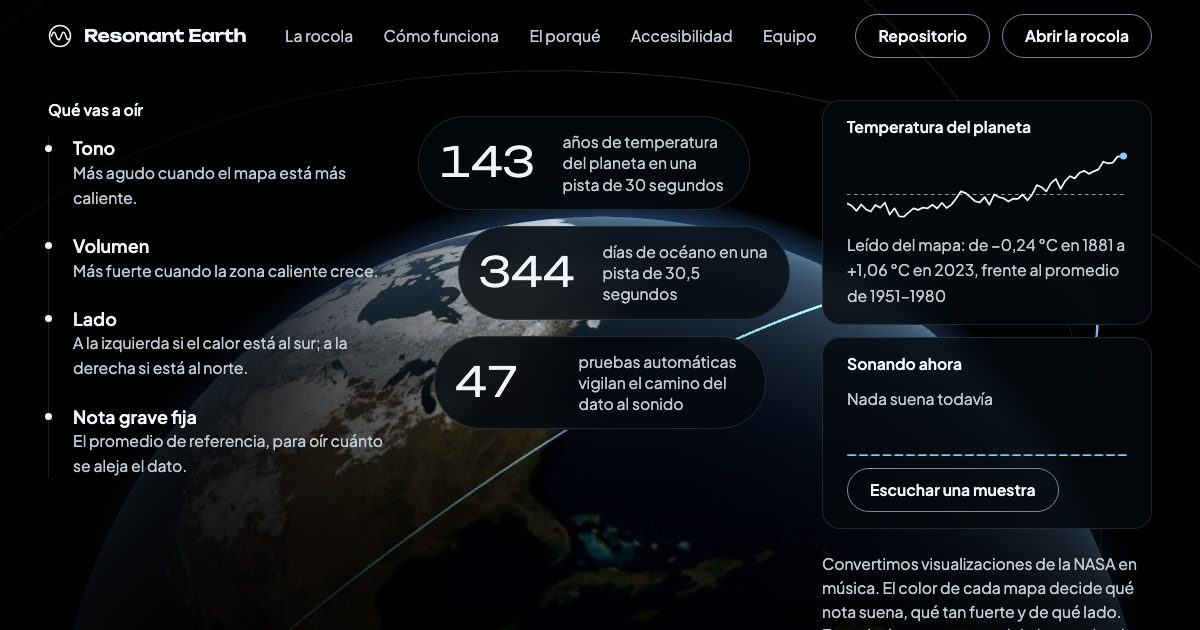
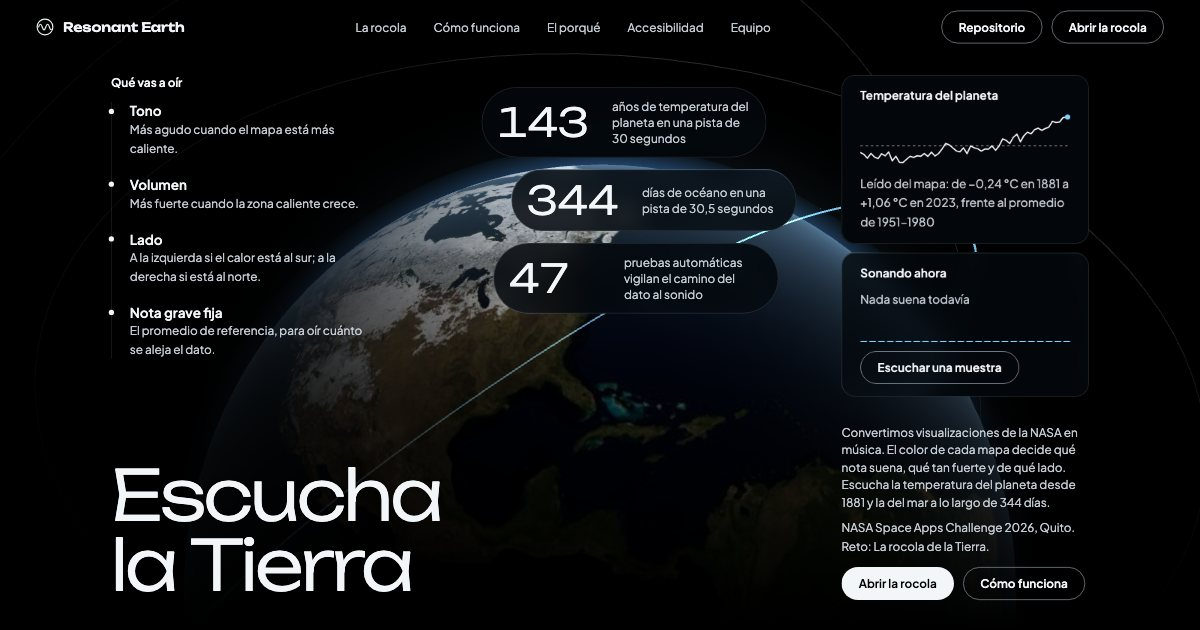
Ronda 40: auditoría y pulido (explorador se apaga solo y calla al salir, imagen para compartir con título, README web)

diff --git a/web/js/explorar.js b/web/js/explorar.js
@@ -10,6 +10,7 @@ const PASO = 0.025, PASO_LARGO = 0.1;   // fracción del mapa que mueve cada fle
 const DIST_MAX = 70;                    // distancia RGB máxima a la barra para aceptar un color (modo lab)
 const TONO_MAX = 12;                    // diferencia de matiz máxima, en grados (modo matiz)
 const NIVEL = 0.22;                     // amplitud de la voz de exploración
+const SOSTENER = 2.5;                   // segundos que suena un punto antes de empezar a apagarse
 const MENOS = "−";
 
 let el = null;                          // { boton, zona, mira, texto, video }
@@ -128,14 +129,16 @@ function sonar(nota) {
     voz.start();
   }
   const t = ctx.currentTime;
+  nivelVoz.gain.cancelScheduledValues(t);
   if (nota == null) { nivelVoz.gain.setTargetAtTime(0, t, 0.04); return; }
   voz.frequency.setTargetAtTime(440 * Math.pow(2, (nota - 69) / 12), t, 0.015);
   nivelVoz.gain.setTargetAtTime(NIVEL, t, 0.03);
+  nivelVoz.gain.setTargetAtTime(0, t + SOSTENER, 0.5);     // si la mira se queda quieta, la nota se va apagando
 }
 
 function callar() {
   const ctx = audio.contexto();
-  if (ctx && nivelVoz) nivelVoz.gain.setTargetAtTime(0, ctx.currentTime, 0.04);
+  if (ctx && nivelVoz) { nivelVoz.gain.cancelScheduledValues(ctx.currentTime); nivelVoz.gain.setTargetAtTime(0, ctx.currentTime, 0.04); }
 }
 
 function actualizar(inmediato) {
@@ -194,6 +197,9 @@ export function iniciarExplorar(elementos, opciones = {}) {
   el.zona.addEventListener("pointermove", alPuntero);
   el.zona.addEventListener("pointerdown", alPuntero);
   el.zona.addEventListener("keydown", alTeclado);
+  el.zona.addEventListener("pointerleave", callar);
+  el.zona.addEventListener("blur", callar);
+  document.addEventListener("visibilitychange", () => { if (document.hidden) callar(); });
   audio.alCambiar((e) => { if (activo && e.sonando) salir(); });       // si la pista vuelve a sonar, se deja de explorar
 }
 
@@ -218,7 +224,6 @@ function entrar() {
   audio.desbloquear();                   // primero y sin await: es un gesto del usuario
   audio.pausar();
   activo = true;
-  el.boton.setAttribute("aria-pressed", "true");
   el.boton.textContent = "Dejar de explorar";
   el.zona.hidden = false;
   el.zona.focus({ preventScroll: true });
@@ -231,7 +236,6 @@ export function salir() {
   if (!activo) return;
   activo = false;
   callar();
-  el.boton.setAttribute("aria-pressed", "false");
   el.boton.textContent = "Explorar el mapa";
   el.zona.hidden = true;
   el.texto.textContent = "";

diff --git a/web/index.html b/web/index.html
@@ -126,7 +126,7 @@
             <div class="controles" role="group" aria-label="Controles de la rocola">
               <button id="btn-reproducir" class="boton boton-lleno" type="button" disabled>Reproducir</button>
               <button id="btn-cambiar" class="boton boton-contorno" type="button" disabled>Cambiar de pista</button>
-              <button id="btn-explorar" class="boton boton-contorno" type="button" aria-pressed="false" disabled title="Oye el valor de cada punto del mapa, en tiempo real">Explorar el mapa</button>
+              <button id="btn-explorar" class="boton boton-contorno" type="button" disabled title="Oye el valor de cada punto del mapa, en tiempo real">Explorar el mapa</button>
               <button id="btn-comparar" class="boton boton-contorno" type="button" disabled title="Suena el principio de la pista y, enseguida, el final">Antes y después</button>
               <span class="grupo-volumen"><label class="volumen" for="volumen">Volumen</label><input id="volumen" type="range" min="0" max="100" step="1" value="80" aria-valuetext="80 %"></span>
               <span id="tiempo" class="dato">0:00 / 0:00</span>

diff --git a/web/js/rocola.js b/web/js/rocola.js
@@ -223,8 +223,6 @@ function seguirComparacion(e) {
     comparacion.fase = 2;
     saltarA(comparacion.inicio2);
     decir(`Después: los últimos ${TRAMO} segundos.`);
-  } else if (comparacion.fase === 1 && e.tiempo > TRAMO + 1) {
-    comparacion = null;                                      // el usuario movió la pista a mano
   }
 }
 

diff --git a/web/README.md b/web/README.md
@@ -17,6 +17,8 @@ Abre <http://localhost:8001>. Con doble clic (`file://`) no carga: necesita un s
 
 - **Hero:** globo 3D (Three.js, texturas Blue Marble y Black Marble de NASA) con un anillo de sonido que se deforma con el audio real, órbitas y una atmósfera que brilla con la amplitud.
 - **La rocola:** dos tarjetas de pista y un reproductor con visualizador (Web Audio, `AnalyserNode`), gráfico con cursor, lectura en vivo («1976: +0,02 °C respecto al promedio…») y la descripción accesible de cada pista.
+- **Explorar el mapa:** con la pista en pausa, el cursor o las flechas mueven una mira sobre el fotograma; el color de ese punto se convierte en valor con la barra de la pista (`assets/<id>_paleta.json`), suena al instante y se describe en texto (latitud, longitud, fecha y valor). La nota se apaga sola a los 2,5 s de quietud; Esc sale.
+- **Antes y después:** suenan los primeros 5 s de la pista y, enseguida, los últimos 5 s.
 - **Cómo funciona, El porqué, Accesibilidad, Equipo y pie.**
 - Animaciones con GSAP + ScrollTrigger; con `prefers-reduced-motion` el globo no gira y solo hay fundidos.
 
@@ -32,6 +34,7 @@ Abre <http://localhost:8001>. Con doble clic (`file://`) no carga: necesita un s
 | `js/mapeo.js` | cálculo puro del sonido en vivo (notas, dron, volumen, paneo, golpes) a partir de `_mapeo.json`; sin DOM ni Web Audio |
 | `js/vivo.js` | motor Web Audio del sonido en vivo: nodos, planificador y sincronía con el video; `renderizar()` sin conexión |
 | `js/package.json` | `{"type": "module"}`: deja que Node importe `js/*.js` para la prueba; el navegador lo ignora |
+| `js/explorar.js` | «Explorar el mapa»: color del fotograma → valor → nota y texto, en tiempo real |
 | `js/rocola.js`, `js/lectura.js`, `js/grafico.js`, `js/visualizador.js` | reproductor y sus partes |
 | `js/globo.js`, `js/animaciones.js`, `js/tarjetas.js` | globo 3D, GSAP y brillo del cursor |
 | `vendor/` | three, GSAP y ScrollTrigger (ver `vendor/LICENCIAS.md`) |

diff --git a/docs/REVISION_Y_MEJORAS.md b/docs/REVISION_Y_MEJORAS.md
@@ -7,6 +7,7 @@ No se cambió ningún archivo del proyecto. Todo lo generado quedó fuera del re
 > **Estado al cierre del 15-nov-2026 (rama `mejoras/ronda-38`, sin push):** hechas M1 (parcial: falta el quinto nombre y los aportes), M2, M3, M4, M5, M6, M7, M8,
 > D1 (fusionado; falta la prueba manual en Safari, iPhone y Firefox), D3, D8, P5 (CI escrito, sin ejecutar en GitHub) y los hallazgos H10, H13, H14, H15.
 > Pendientes: D2, D4, D5, D6, D7, P1–P4, P6–P10, H12 (decisión), H16 (CSP), H17 y **publicar la web**. Detalle en la RONDA 38 de `docs/CAMBIOS.txt`.
+> Ronda 39: se leyó el enunciado oficial y se añadió «Explorar el mapa» (sonido en tiempo real desde el fotograma, con teclado, texto y vibración); se descartaron D2 y D6 por no pedirlos el reto.
 > El resto de este documento es la revisión original, hecha sobre `master` antes de esos cambios.
 
 ---
